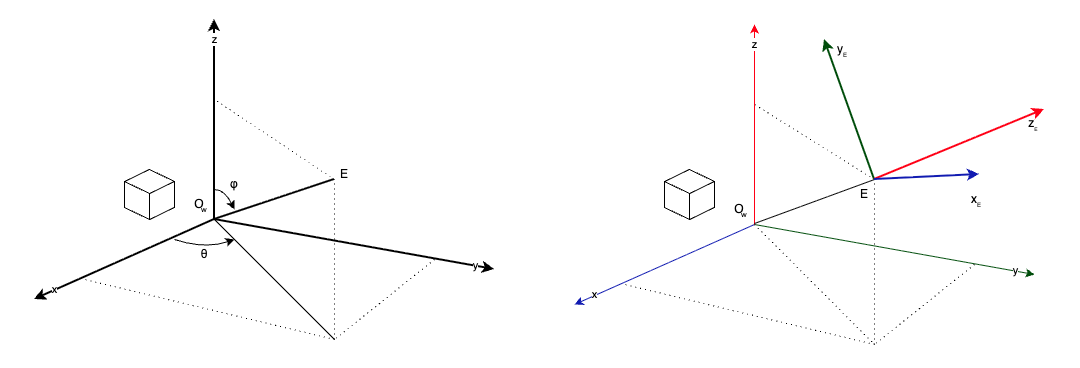
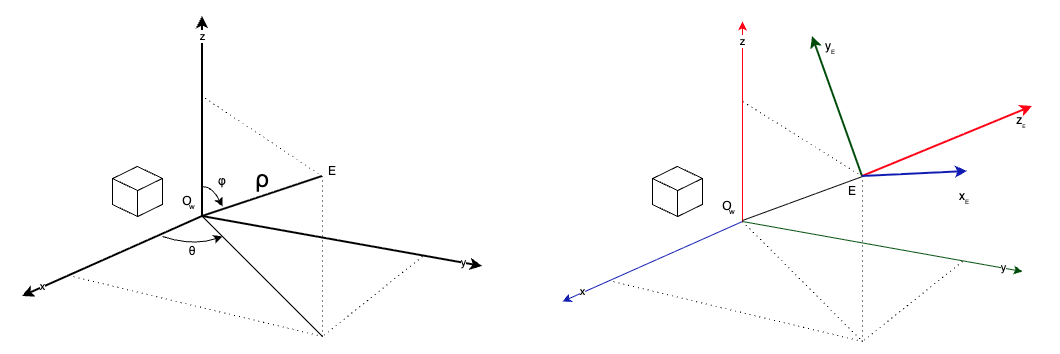
up img

diff --git a/dist/book/index.md b/dist/book/index.md
@@ -3,7 +3,6 @@
 # D D D 
 
 
-
 # contents
 
 - preface 
@@ -14,10 +13,9 @@
 
 
 
+# 1: Basic concepts
 
-# Basic concepts
-
-### 1.0: The Canvas  
+### 1.0 The Canvas  
 
 The `canvas` is an html5 tag introduced by  (no it's not a typo) in 2004 and then _quickly_ adopted and available in every browser as standard core feature (2008).  
 It provides a bitmap-based area on the browser allowing to draw programmatically shapes, graphics and more. This was the demise of macromedia Flash.  
@@ -58,11 +56,12 @@ draw(0, H, '#ddd');      draw(W/2, H, '#888');     draw(W, H, '#555');
 
 ---
 
-### 1.1: Coordinates and logical coordinates  
+### 1.1 Coordinates and logical coordinates  
 
 In _math_ almost all the numerical results will be similar to rational numbers (indeed a computer can only have finite decimal digits). The native methods available for us to draw on the canvas though accepts only integers; those parameters are exactly the coordinates of our points in the coordinates system of the canvas. This system has the origin in the top left of the screen, the x-axis is horizontal pointing toward the right and they-axis is vertical pointing toward the bottom.
 
-![Foo](https://raw.githubusercontent.com/fedeghe/ddd/master/dist/book/media/system0.png)
+![Foo](https://github.com/fedeghe/ddd/blob/master/dist/book/media/system0.png?raw=true)
+
 
 We need then to change the coordinate system into one we all feel more comfortable to draw in.
 
@@ -78,52 +77,30 @@ var width = 800,
     }); 
 ```
 
-![Foo](https://raw.githubusercontent.com/fedeghe/ddd/master/dist/book/media/system3.png)
+![Foo](https://github.com/fedeghe/ddd/blob/master/dist/book/media/system3.png?raw=true)
 
 ---
 
-### 1.2: Before jumping the the rabbit's hole  
+### 1.2 Before jumping into the rabbit's hole  
 
-At that point the book could take the annoying path of introducing all what is needed to dive directly into the engine:  
-- mapping modes  
-- basic algebra and applied geometry. 
-- 3 points orientation. 
-- area of a polygon
-- point in triangle test
-- point in polygon test
-- point on line test
-- point line distance
-- point on line projection
-- triangulation of a polygon
-- basic matrix theory:
-  - linear transformation
-  - inversions, translations, rotations
-  - homogeneous coordinates
-  - rotations
-  - change of base
-- some very classic algorithms:
-  - Beizer curves
-  - b-spline fitting
-  - Cohen-Sutherland line clipping
-  - Bresenham's Algorithm for line drawing
-  - Sutherland-Hodgman Polygon Clipping
-  
-but, I will NOT.  
-I'll assume you know. The code will be there on the library for you to use (and check).
+At that point the book could take the annoying path of introducing all what is needed to dive directly into the engine.  
+A non exaustive list would at least contain a decent overview on mapping modes, basic algebra and applied geometry, 3 points orientation, area of a polygon, point in triangle test, point in polygon test, point on line test, point line distance, point on line projection, triangulation of a polygon, basic matrix theory (linear transformation and their composition, inversions, translations, rotations, homogeneous coordinates, change of base), some very classic algorithms (Beizer curves, b-spline fitting, Cohen-Sutherland line clipping, Bresenham's Algorithm for line drawing, Sutherland-Hodgman Polygon Clipping). You knot that sense when you prepare the luggare for a journeyaand you are sure you forgot something? That's me here now! Not a big deal anyway since "All chickens come home to roost" right? Absolutely yes
+    
+I'll assume you know or you are motivated enough to read quickly about it and get familiar with those topics, AI wont help you.
 
-So without further ado, let jump into the _perspective_ topic.
+So without further ado, let's jump into the _perspective_ topic.
 
 
-# The engine
+# 2 The rabbit hole
 
-## 2.1 The perspective
+## 2.0 The perspective
 
-![perspective](https://raw.githubusercontent.com/fedeghe/ddd/master/dist/book/media/perspective.png)
+![perspective](https://github.com/fedeghe/ddd/blob/master/dist/book/media/perspective.png?raw=true)
 
 The perspective is a tecnique to represent on a plane a tridimensional object.  
 Lines that in 3D are parallel (usually apart vertical ones) meet in the 2D plane in a so called _vanishing-point_. Those vanishing points line on the same line, called _horizon_.  
 
-## 2.2 The coordinates transformations
+## 2.1 The coordinates transformations
 
 We will build models and move them, do all the math in 3D and each time we want to "see" it on our screen we will need to run:  
 
@@ -135,10 +112,12 @@ We will build models and move them, do all the math in 3D and each time we want 
     from eye coordinates (x<sub>e</sub>, y<sub>e</sub>, z<sub>e</sub>)  
     into screen coordinates (X, Y)
 
-### 2.2.1 the viewing transformation
+#### 2.1.1 the viewing transformation
 
 The first transformation we need to compute in the one that changes the coordinate system from the world into a coordinate system having its origin in the our eye (one for the moment), the point of view, or camera. I'll refer to that point with the E letter.
 
-![view transformation](https://raw.githubusercontent.com/fedeghe/ddd/master/dist/book/media/transformation0.png)
+![view transformation](https://github.com/fedeghe/ddd/blob/master/dist/book/media/transformation0.png?raw=true)
+
+On the left you can see the world coordinate system, it will likely contain something we want to render in 2D, for the moment let's assume it is just a cube. Another very important element is the observer, our eye.
 
 ---

diff --git a/src/book/ch1/2.md b/src/book/ch1/2.md
@@ -1,30 +1,8 @@
-### 1.2: Before jumping the the rabbit's hole  
+### 1.2 Before jumping into the rabbit's hole  
 
-At that point the book could take the annoying path of introducing all what is needed to dive directly into the engine:  
-- mapping modes  
-- basic algebra and applied geometry. 
-- 3 points orientation. 
-- area of a polygon
-- point in triangle test
-- point in polygon test
-- point on line test
-- point line distance
-- point on line projection
-- triangulation of a polygon
-- basic matrix theory:
-  - linear transformation
-  - inversions, translations, rotations
-  - homogeneous coordinates
-  - rotations
-  - change of base
-- some very classic algorithms:
-  - Beizer curves
-  - b-spline fitting
-  - Cohen-Sutherland line clipping
-  - Bresenham's Algorithm for line drawing
-  - Sutherland-Hodgman Polygon Clipping
-  
-but, I will NOT.  
-I'll assume you know. The code will be there on the library for you to use (and check).
+At that point the book could take the annoying path of introducing all what is needed to dive directly into the engine.  
+A non exaustive list would at least contain a decent overview on mapping modes, basic algebra and applied geometry, 3 points orientation, area of a polygon, point in triangle test, point in polygon test, point on line test, point line distance, point on line projection, triangulation of a polygon, basic matrix theory (linear transformation and their composition, inversions, translations, rotations, homogeneous coordinates, change of base), some very classic algorithms (Beizer curves, b-spline fitting, Cohen-Sutherland line clipping, Bresenham's Algorithm for line drawing, Sutherland-Hodgman Polygon Clipping). You knot that sense when you prepare the luggare for a journeyaand you are sure you forgot something? That's me here now! Not a big deal anyway since "All chickens come home to roost" right? Absolutely yes
+    
+I'll assume you know or you are motivated enough to read quickly about it and get familiar with those topics, AI wont help you.
 
-So without further ado, let jump into the _perspective_ topic.
+So without further ado, let's jump into the _perspective_ topic.

diff --git a/src/book/ch2/0.md b/src/book/ch2/0.md
@@ -1,11 +1,11 @@
-## 2.1 The perspective
+## 2.0 The perspective
 
-![perspective](https://raw.githubusercontent.com/fedeghe/ddd/master/dist/book/media/perspective.png)
+![perspective](https://github.com/fedeghe/ddd/blob/master/dist/book/media/perspective.png?raw=true)
 
 The perspective is a tecnique to represent on a plane a tridimensional object.  
 Lines that in 3D are parallel (usually apart vertical ones) meet in the 2D plane in a so called _vanishing-point_. Those vanishing points line on the same line, called _horizon_.  
 
-## 2.2 The coordinates transformations
+## 2.1 The coordinates transformations
 
 We will build models and move them, do all the math in 3D and each time we want to "see" it on our screen we will need to run:  
 
@@ -17,8 +17,10 @@ We will build models and move them, do all the math in 3D and each time we want 
     from eye coordinates (x<sub>e</sub>, y<sub>e</sub>, z<sub>e</sub>)  
     into screen coordinates (X, Y)
 
-### 2.2.1 the viewing transformation
+#### 2.1.1 the viewing transformation
 
 The first transformation we need to compute in the one that changes the coordinate system from the world into a coordinate system having its origin in the our eye (one for the moment), the point of view, or camera. I'll refer to that point with the E letter.
 
-![view transformation](https://raw.githubusercontent.com/fedeghe/ddd/master/dist/book/media/transformation0.png)
+![view transformation](https://github.com/fedeghe/ddd/blob/master/dist/book/media/transformation0.png?raw=true)
+
+On the left you can see the world coordinate system, it will likely contain something we want to render in 2D, for the moment let's assume it is just a cube. Another very important element is the observer, our eye.

diff --git a/src/book/ch1/1.md b/src/book/ch1/1.md
@@ -1,8 +1,9 @@
-### 1.1: Coordinates and logical coordinates  
+### 1.1 Coordinates and logical coordinates  
 
 In _math_ almost all the numerical results will be similar to rational numbers (indeed a computer can only have finite decimal digits). The native methods available for us to draw on the canvas though accepts only integers; those parameters are exactly the coordinates of our points in the coordinates system of the canvas. This system has the origin in the top left of the screen, the x-axis is horizontal pointing toward the right and they-axis is vertical pointing toward the bottom.
 
-![Foo](https://raw.githubusercontent.com/fedeghe/ddd/master/dist/book/media/system0.png)
+![Foo](https://github.com/fedeghe/ddd/blob/master/dist/book/media/system0.png?raw=true)
+
 
 We need then to change the coordinate system into one we all feel more comfortable to draw in.
 
@@ -18,4 +19,4 @@ var width = 800,
     }); 
 ```
 
-![Foo](https://raw.githubusercontent.com/fedeghe/ddd/master/dist/book/media/system3.png)
+![Foo](https://github.com/fedeghe/ddd/blob/master/dist/book/media/system3.png?raw=true)

diff --git a/src/book/ch1/0.md b/src/book/ch1/0.md
@@ -1,4 +1,4 @@
-### 1.0: The Canvas  
+### 1.0 The Canvas  
 
 The `canvas` is an html5 tag introduced by  (no it's not a typo) in 2004 and then _quickly_ adopted and available in every browser as standard core feature (2008).  
 It provides a bitmap-based area on the browser allowing to draw programmatically shapes, graphics and more. This was the demise of macromedia Flash.  

diff --git a/src/book/index.md b/src/book/index.md
@@ -1,8 +1,6 @@
 $$cover.md$$
 
-
 $$contents.md$$
-
 
 $$ch1/index.md$$
 

diff --git a/src/book/ch1/index.md b/src/book/ch1/index.md
@@ -1,4 +1,4 @@
-# Basic concepts
+# 1: Basic concepts
 
 $$ch1/0.md$$
 

diff --git a/src/book/ch2/index.md b/src/book/ch2/index.md
@@ -1,4 +1,6 @@
-# The engine
+# 2 The rabbit hole
+
+
 
 $$ch2/0.md$$
 
